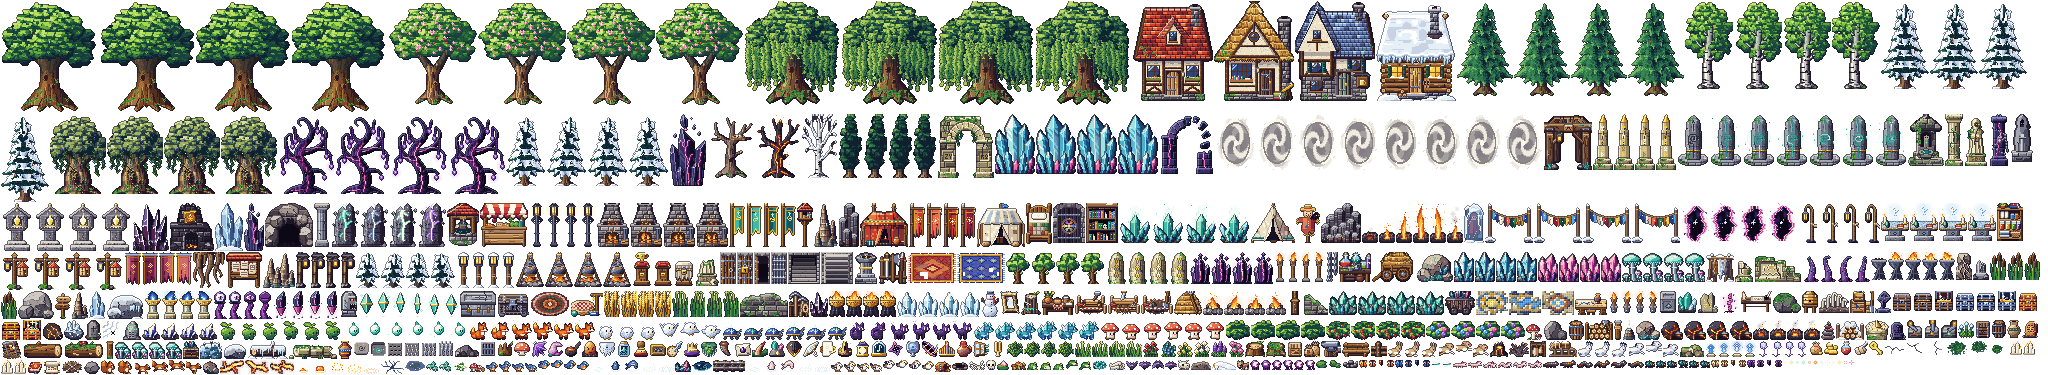
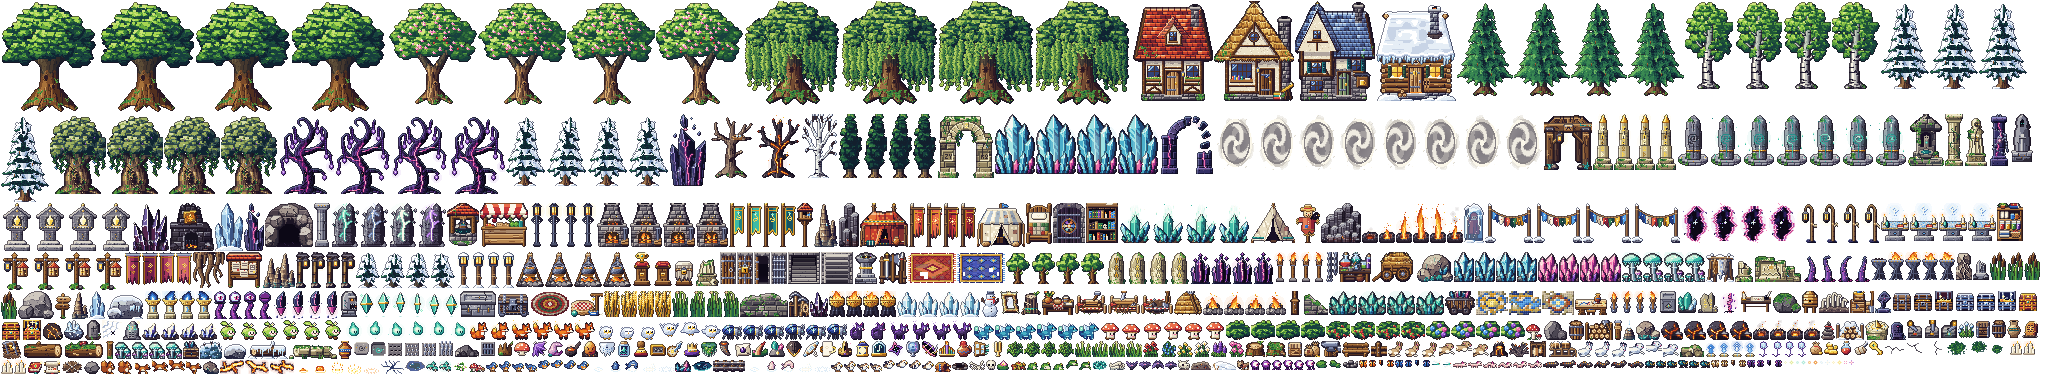
Begleiter überarbeitet: Moosling hebt sich vom Gras ab, Runenkäfer liest sich als Käfer, Quelldrachling ruhiger, Irrwisch als helle Flamme, Schneeeule mit großem Gesicht
Claude-Session: https://claude.ai/code/session_01RqpoYuwkQgyKncWb2VSQum

diff --git a/client/src/gfx/objects/cm_pets.ts b/client/src/gfx/objects/cm_pets.ts
@@ -4,7 +4,7 @@
  * y = 18, Kontur bei y = 19). Schwebende Begleiter (Irrlicht) halten ihren Abstand zum Boden im Frame selbst; das
  * Hüpfen der Schneeeule steckt ebenfalls in den Lauf-Frames. Lichtschein ist halbtransparent und ohne Kontur.
  */
-import { Px } from '../draw';
+import { Px, bez, tube } from '../draw';
 import { Frames, INK, P, Ramp, WHITE, alpha, glow, inkOutline, mix } from './kit';
 
 export const PET_W = 20, PET_H = 20, PET_FRAMES = 6;
@@ -17,38 +17,45 @@ const dot = (p: Px, x: number, y: number, c: number, a: number): void => { if (p
 
 // ---------------------------------------------------------------- Moosling: Moosknäuel mit Blatt
 const moosling: Pet = (p, f) => {
-  const G: Ramp = [P.forest[0], P.forest[2], P.green[2], P.green[3], P.green[4]];
+  // Helles, gelbliches Moos, cremefarbenes Gesicht, braune Wurzelfüße und eine kräftige dunkle Kontur: Auf Gras und unter
+  // Blätterschatten ging der frühere, rein grüne Moosling unter.
+  const G: Ramp = [P.forest[1], P.green[2], P.green[3], P.green[4], mix(P.green[4], P.gold[4], 0.55)], C = P.cream, R = P.wood;
   const w = ph(f), dy = w < 0 ? 0 : [0, -1, 0, -1][w], sq = w < 0 && f === 1 ? 1 : 0, lx = w < 0 ? f : [1, 0, -1, 0][w];
-  const cy = 12.6 + dy + sq * 0.6, a = w < 0 ? 0 : [1, 0, -1, 0][w];
-  p.rect(6 + a, 17 - (w === 3 ? 1 : 0), 3, 2, G[1]); p.rect(11 - a, 17 - (w === 1 ? 1 : 0), 3, 2, G[1]);
-  p.ball(10, cy, 6.3, 4.8 - sq * 0.5, G, 1, 4);
-  const t = Math.round(cy - 4.6 + sq * 0.5);
-  p.px([5, t + 2, 7, t, 8, t, 12, t, 14, t + 1], G[4]); p.px([6, t + 1, 10, t, 13, t + 1, 15, t + 3], G[3]); p.px([7, t + 6, 9, t + 8, 12, t + 8, 5, t + 5], G[1]);
-  const ey = Math.round(cy - 0.6);
-  p.rect(11, ey, 1, 2, INK); p.rect(14, ey, 1, 2, INK); p.set(15, ey + 2, P.pink[3]); p.set(10, ey + 2, P.pink[3]);
-  // Trieb mit großem Blatt, das nachschwingt
-  p.rect(9, t - 2, 1, 3, G[1]);
+  const cy = 12.2 + dy + sq * 0.6, a = w < 0 ? 0 : [1, 0, -1, 0][w];
+  for (const [x, up] of [[6 + a, w === 3], [11 - a, w === 1]] as const) { const y = 17 - (up ? 1 : 0); p.rect(x, y, 3, 2, R[2]); p.set(x, y, R[3]); p.set(x + 2, y + 1, R[1]); }
+  p.ball(10, cy, 6.6, 5.2 - sq * 0.5, G, 1, 4);
+  const t = Math.round(cy - 5 + sq * 0.5);
+  p.px([5, t + 2, 7, t, 8, t + 1, 12, t, 6, t + 3], G[4]); p.px([13, t + 1, 15, t + 3, 10, t], G[3]); p.px([7, t + 8, 5, t + 6, 4, t + 5], G[0]);
+  // Gesicht: heller Fleck vorn, große Augen, Wangen
+  const ey = Math.round(cy - 0.8);
+  p.ell(12.6, cy + 0.9, 3.5, 2.8, C[3]); p.ell(12.2, cy + 0.5, 2.7, 1.9, C[4]);
+  p.rect(11, ey, 1, 2, INK); p.rect(14, ey, 1, 2, INK); p.set(10, ey + 2, P.pink[3]); p.set(15, ey + 2, P.pink[3]); p.px([12, ey + 2, 13, ey + 2], R[1]);
+  // Trieb mit großem Blatt, das nachschwingt, und einer kleinen weißen Blüte
+  p.rect(9, t - 2, 1, 3, R[2]);
   p.poly([[9.5, t - 1.5], [8, t - 5], [4 + lx, t - 5 + (lx > 0 ? 1 : 0)], [3 + lx, t - 3], [6, t - 1.5]], G[3]);
-  p.line(9, t - 2, 5 + lx, t - 4, G[4]); p.set(4 + lx, t - 3, G[2]); p.px([10, t - 3, 11, t - 4], G[4]); p.set(12, t - 4, G[3]);
-  inkOutline(p);
+  p.line(9, t - 2, 5 + lx, t - 4, G[4]); p.set(4 + lx, t - 3, G[1]);
+  p.px([11, t - 3, 13, t - 3, 12, t - 4, 12, t - 2], WHITE); p.set(12, t - 3, P.gold[3]); p.px([10, t - 2, 11, t - 2], G[2]);
+  inkOutline(p, 0.74, 0.88);
 };
 
 // ---------------------------------------------------------------- Irrlicht: freundliches Flämmchen, schwebt
 const wisp: Pet = (p, f) => {
-  const T: Ramp = [P.teal[1], P.teal[2], P.teal[3], P.teal[4], WHITE];
+  // Flammenleib durchgehend hell (außen Türkis, innen fast Weiß): die frühere dunkle Spitze las sich als Rübenblatt
+  const O = P.teal[3], M = P.teal[4], L = mix(P.teal[4], WHITE, 0.6);
   const w = ph(f), dy = w < 0 ? -f : [0, -1, -1, 0][w], lean = w < 0 ? 0 : 1, fl = w < 0 ? (f ? 1 : -1) : [-1, -2, -1, -2][w];
-  const cx = 10 + lean, cy = 10.5 + dy;
-  // Flammenzipfel (weht beim Schweben nach hinten)
-  p.poly([[cx - 3, cy - 1], [cx - 1 + fl * 0.5, cy - 5], [cx + fl, cy - 8], [cx + 1.5 + fl * 0.3, cy - 4.5], [cx + 3, cy - 1]], T[2]);
-  p.poly([[cx - 1.5, cy - 1], [cx - 0.3 + fl * 0.5, cy - 4], [cx + 0.3 + fl * 0.8, cy - 6], [cx + 1.2, cy - 1]], T[3]);
-  p.ball(cx, cy, 4.3, 4.3, T, 1, 4, 0.12); p.ell(cx - 0.6, cy - 0.4, 2.6, 2.4, T[4]); p.ell(cx + 0.4, cy + 1, 2.6, 2, T[3]); p.ell(cx - 0.8, cy - 0.8, 1.6, 1.4, WHITE);
+  const cx = 10 + lean, cy = 11 + dy, tx = cx + fl * 1.1 - (w < 0 ? 0 : 1.2), ty = cy - 9;
+  p.poly([[cx - 3.8, cy - 1], [cx - 2.4 + fl * 0.3, cy - 4.5], [tx, ty], [cx + 1.8 + fl * 0.5, cy - 4.5], [cx + 3.8, cy - 1]], O);
+  p.ell(cx, cy, 4.5, 4.3, O);
+  p.poly([[cx - 2.6, cy - 1], [cx - 1.4 + fl * 0.3, cy - 4], [tx + 0.2, ty + 2.4], [cx + 0.8 + fl * 0.4, cy - 4], [cx + 2.4, cy - 1]], M);
+  p.ell(cx - 0.3, cy - 0.2, 3.5, 3.3, M); p.ell(cx - 0.6, cy - 0.6, 2.5, 2.4, L); p.ell(cx - 0.9, cy - 1, 1.5, 1.3, WHITE);
+  p.px([cx + 2, cy + 3, cx + 3, cy + 2, cx + 1, cy + 3], P.teal[2]); p.set(Math.round(tx), Math.round(ty + 1), M);
   const ex = Math.round(cx), ey = Math.round(cy - 0.4);
   p.rect(ex, ey, 1, 2, P.teal[0]); p.rect(ex + 2, ey, 1, 2, P.teal[0]); p.set(ex + 1, ey + 2, P.teal[1]);
-  if (w < 0 && f === 1) { p.rect(ex, ey, 1, 1, T[3]); p.rect(ex + 2, ey, 1, 1, T[3]); }
-  inkOutline(p, 0.5, 0.62, P.teal[0]);
+  if (w < 0 && f === 1) { p.rect(ex, ey, 1, 1, M); p.rect(ex + 2, ey, 1, 1, M); }
+  inkOutline(p, 0.42, 0.58, P.teal[0]);
   glow(p, cx, cy, 8, P.teal[4], 70);
   // Funken: unter dem Irrlicht bzw. als Schweif hinter ihm
-  if (w < 0) { dot(p, 9 + f, 16 + f, P.teal[4], 200); dot(p, 12 - f, 17, WHITE, 170); dot(p, 7, 15 - f, P.teal[3], 150); }
+  if (w < 0) { dot(p, 9 + f, 17 + f, P.teal[4], 200); dot(p, 12 - f, 18, WHITE, 170); dot(p, 7, 16 - f, P.teal[3], 150); }
   else { dot(p, 5 - (w & 1), 13 + (w >> 1), P.teal[4], 210); dot(p, 3 + (w & 1), 11 + w % 3, WHITE, 170); dot(p, 6, 16 - (w & 1), P.teal[3], 160); dot(p, 2, 14, P.teal[3], 110); }
 };
 
@@ -104,45 +111,55 @@ const schneeeule: Pet = (p, f) => {
   else if (wing === 2) { p.poly([[6, cy], [1, cy - 6], [3, cy - 1], [5, cy + 2]], S[2]); p.poly([[14, cy], [19, cy - 6], [17, cy - 1], [15, cy + 2]], S[1]); p.px([1, cy - 5, 2, cy - 3], S[4]); p.set(19, cy - 5, S[3]); }
   else if (wing === -1) { p.poly([[6, cy - 1], [1, cy + 3], [3, cy + 4], [6, cy + 3]], S[2]); p.poly([[14, cy - 1], [19, cy + 3], [17, cy + 4], [14, cy + 3]], S[1]); p.set(2, cy + 3, S[4]); }
   else { p.poly([[6, cy - 1], [1, cy - 1], [2, cy + 1], [6, cy + 2]], S[2]); p.poly([[14, cy - 1], [19, cy - 1], [18, cy + 1], [14, cy + 2]], S[1]); p.set(2, cy - 1, S[4]); }
-  // Körper
-  p.ball(10, cy, 5.6, ry, S, 1, 4, 0.1);
+  // Körper: graublau gesprenkelt, damit das weiße Gesicht davor steht
+  p.ball(10, cy, 5.6, ry, [S[0], S[1], S[2], S[3], S[3]], 1, 4, 0.06);
   const t = Math.round(cy - ry);
   p.px([6, t + 1, 13, t + 1], S[4]); p.set(5, t, S[3]); p.set(14, t, S[3]);
   if (wing === 0) { p.ell(6.2, cy + 1.4, 1.8, 2.8, S[2]); p.px([6, cy + 3, 5, cy + 1, 7, cy + 4], S[1]); }
-  p.px([10, cy + 2, 12, cy + 3, 9, cy + 4, 13, cy + 1], S[1]);
-  // Gesicht: große Augen, kleiner Schnabel
-  const ey = Math.round(cy - 2.2);
-  if (w < 0 && f === 1) { p.rect(9, ey + 1, 2, 1, P.steel[1]); p.rect(13, ey + 1, 2, 1, P.steel[1]); }
-  else { p.rect(9, ey, 2, 2, Y[3]); p.rect(13, ey, 2, 2, Y[3]); p.set(10, ey + 1, INK); p.set(14, ey + 1, INK); p.set(10, ey, INK); p.set(14, ey, INK); p.set(9, ey, Y[4]); p.set(13, ey, Y[4]); }
-  p.rect(12, ey + 2, 1, 2, P.fire[2]); p.set(12, ey + 2, Y[3]);
+  p.px([9, cy + 3, 11, cy + 4, 13, cy + 3, 10, cy + 5, 12, cy + 5], S[1]);
+  // Gesichtsschleier, große Augen mit Goldring, Schnabel
+  const ey = Math.round(cy - 2.4);
+  p.ell(11.5, cy - 1.2, 4.2, 2.9, S[4]); p.px([8, ey - 1, 15, ey - 1], S[4]);
+  if (w < 0 && f === 1) { p.rect(8, ey + 1, 3, 1, P.steel[1]); p.rect(12, ey + 1, 3, 1, P.steel[1]); }
+  else for (const x of [8, 12]) { p.rect(x, ey, 3, 3, Y[3]); p.rect(x + 1, ey, 2, 2, INK); p.set(x + 1, ey, WHITE); p.set(x, ey + 2, Y[2]); }
+  p.rect(11, ey + 2, 1, 2, P.fire[2]); p.set(11, ey + 2, Y[4]);
   inkOutline(p, 0.5, 0.66, P.blue[0]);
 };
 
 // ---------------------------------------------------------------- Runenkäfer: Panzer mit leuchtender Glyphe
 const runenkaefer: Pet = (p, f) => {
+  // Käfer statt Schildkröte: ovaler Hinterleib mit Flügeldeckennaht, abgesetzter heller Halsschild, Kopf mit Gabelhorn,
+  // fünf sichtbare, abgewinkelte Beine im Dreifußgang.
   const B: Ramp = [P.shadow[1], P.blue[0], P.blue[1], mix(P.blue[2], P.violet[2], 0.35), mix(P.blue[3], P.ice[2], 0.4)], S = P.steel, Y = P.gold, w = ph(f);
-  const dy = w === 1 || w === 3 ? -1 : 0, a = w < 0 ? 0 : [1, 0, -1, 0][w];
-  // drei gespreizte Beine (Dreifußgang: vorn/hinten gegen die Mitte)
-  for (const [x, s, dir] of [[4, 1, -1], [9, -1, 0], [13, 1, 1]] as const) { const o = a * s; p.line(x, 16 + dy, x + dir + o, 18, S[1]); p.set(x + dir + o + (dir || 1), 18, S[1]); }
-  // Kopf, Fühler
-  p.ell(16, 14.4 + dy, 2.4, 2.2, S[1]); p.px([15, 13 + dy, 16, 13 + dy], S[2]); p.set(17, 14 + dy, P.teal[4]);
-  const an = w < 0 ? f : w & 1;
-  p.line(16, 12 + dy, 18, 10 + dy - an, S[2]); p.set(19, 10 + dy - an, S[3]);
-  // Panzer: Halbkuppel mit Goldsaum und Mittelnaht
-  const by = 16 + dy;
-  for (let y = 5; y < 17; y++) for (let x = 1; x < 16; x++) {
-    const nx = (x + 0.5 - 8.4) / 6.6, ny = (y + 0.5 - by) / 7.2, rr = nx * nx + ny * ny;
-    if (rr > 1 || y + 0.5 > by) continue;
-    const t = 0.6 - (nx * 0.45 + ny * 0.7) * 0.6 - rr * 0.16;
-    p.set(x, y, B[Math.max(1, Math.min(4, 1 + Math.floor(t * 3.4)))]);
+  const dy = w === 1 || w === 3 ? -1 : 0, o = w < 0 ? 0 : [1, 0, -1, 0][w];
+  // ferne Beine
+  p.line(6, 14 + dy, 6 - o, 18, S[0]); p.line(10, 14 + dy, 10 + o, 18, S[0]);
+  // nahe Beine: Hüfte → Knie → Fuß
+  for (const [x, kx, fx] of [[4, 2, 1 + o], [8, 8, 8 - o], [12, 14, 15 + o]] as const) { p.line(x, 14 + dy, kx, 16 + dy, S[2]); p.line(kx, 16 + dy, fx, 18, S[1]); p.set(kx, 15 + dy, S[3]); }
+  // Hinterleib
+  const cy = 10.6 + dy;
+  for (let y = 4; y < 17; y++) for (let x = 0; x < 15; x++) {
+    const nx = (x + 0.5 - 7.4) / 6.2, ny = (y + 0.5 - cy) / 4.9, rr = nx * nx + ny * ny;
+    if (rr > 1) continue;
+    const t = 0.58 - (nx * 0.45 + ny * 0.7) * 0.62 - rr * 0.14;
+    p.set(x, y, B[Math.max(1, Math.min(4, 1 + Math.floor(t * 3.6)))]);
   }
-  p.rect(2, by - 1, 13, 1, Y[2]); p.rect(2, by - 1, 5, 1, Y[3]); p.set(2, by - 1, Y[4]); p.px([5, by - 5, 6, by - 6], WHITE);
+  // Naht der Flügeldecken über den Rücken, Glanz
+  for (const [x, y] of [[12, 7], [11, 7], [10, 6], [9, 6], [8, 6], [7, 6], [6, 7], [5, 7], [4, 8], [3, 9], [2, 10]] as const) p.set(x, y + dy + 1, B[0]);
+  p.px([5, 6 + dy, 6, 6 + dy, 4, 7 + dy], WHITE); p.px([3, 13 + dy, 5, 14 + dy, 8, 15 + dy], B[0]);
+  // Halsschild mit Goldkante, Kopf, Gabelhorn, Taster
+  p.ell(14.2, 11.4 + dy, 2.5, 3.5, S[2]); p.ell(13.8, 10.6 + dy, 1.5, 2, S[3]); p.px([13, 9 + dy, 14, 9 + dy], S[4]);
+  for (let y = 8; y <= 14; y++) p.set(12, y + dy, y < 11 ? Y[4] : y < 13 ? Y[3] : Y[2]);
+  p.ell(16.9, 13 + dy, 1.9, 1.9, S[1]); p.set(17, 12 + dy, P.teal[4]); p.set(16, 12 + dy, S[2]);
+  const an = w < 0 ? f : w & 1;
+  p.line(17, 11 + dy, 18, 8 + dy - an, S[2]); p.px([19, 7 + dy - an, 17, 7 + dy - an], S[3]); p.set(18, 8 + dy - an, S[3]);
+  p.px([18, 15 + dy, 19, 14 + dy], S[2]);
   // Glyphe (ein Runenzeichen mit zwei Ästen): pulsiert in der Ruhe
-  const dim = w < 0 && f === 1, R = dim ? P.teal[3] : P.teal[4], gy = by - 6;
-  p.rect(9, gy, 1, 4, dim ? P.teal[4] : WHITE); p.px([8, gy + 1, 7, gy, 10, gy + 1, 11, gy, 9, gy - 1], R);
+  const dim = w < 0 && f === 1, R = dim ? P.teal[3] : P.teal[4], gy = 9 + dy;
+  p.rect(7, gy, 1, 4, dim ? P.teal[4] : WHITE); p.px([6, gy + 1, 5, gy, 8, gy + 1, 9, gy, 7, gy - 1], R);
   inkOutline(p);
-  glow(p, 9.5, gy + 1, dim ? 4 : 5.5, P.teal[4], dim ? 45 : 75);
-  if (!dim) { dot(p, 9, gy - 5, P.teal[4], 200); dot(p, 4, gy - 3, P.teal[4], 120); }
+  glow(p, 7.5, gy + 1, dim ? 4 : 5.5, P.teal[4], dim ? 45 : 75);
+  if (!dim) { dot(p, 7, gy - 5, P.teal[4], 200); dot(p, 2, gy - 3, P.teal[4], 120); }
 };
 
 // ---------------------------------------------------------------- Schattenkatze: Kätzchen aus Schatten, blasse Augen
@@ -185,36 +202,33 @@ const schattenkatze: Pet = (p, f) => {
 
 // ---------------------------------------------------------------- Quelldrachling: Wasserkristall-Drache, der seltenste
 const quelldrachling: Pet = (p, f) => {
+  // Ruhiger als zuvor: ein Farbton für den Leib, ein heller Flossenflügel, zwei kurze Hörner, ein Tropfen an der
+  // Schwanzspitze – keine Kristallzacken und kein wanderndes Funkeln mehr.
   const A: Ramp = [P.blue[0], P.blue[1], mix(P.blue[2], P.teal[2], 0.5), mix(P.blue[3], P.teal[3], 0.55), mix(P.ice[3], P.teal[4], 0.4)], T = P.teal, I = P.ice, w = ph(f);
   const dy = w < 0 ? 0 : [0, -1, 0, -1][w], a = w < 0 ? 0 : [1, 0, -1, 0][w], fl = w < 0 ? f : [0, 1, 2, 1][w], tw = w < 0 ? f : [0, 1, 0, -1][w];
-  // Schwanz liegt tief und trägt einen Tropfenkristall
-  const ty = 12.5 + dy - tw;
-  p.line(6, 15 + dy, 3, 16 + dy, A[2], 2); p.line(3, 16 + dy, 2, ty + 2, A[2], 2); p.set(5, 15 + dy, A[3]);
-  p.poly([[2.5, ty - 3], [4.5, ty], [2.5, ty + 2.5], [0.5, ty]], T[3]); p.poly([[2.5, ty - 3], [2.5, ty + 2.5], [0.5, ty]], T[4]); p.set(2, ty - 1, WHITE);
+  // Schwanz: ein Bogen nach oben, an der Spitze der Tropfen
+  const ty = 9 + dy - tw;
+  tube(p, bez([6, 15 + dy], [1, 17 + dy], [2.5, ty + 2], 8), 1.5, 0.9, A, 1);
+  p.ell(2.5, ty, 1.7, 2, T[4]); p.set(2, ty - 2, T[4]); p.set(2, ty - 1, WHITE); p.set(3, ty + 1, T[3]);
   // ferne Beine
   p.rect(11 - a, 16 + dy, 1, 3 - dy, A[1]); p.rect(7 + a, 16 + dy, 1, 3 - dy, A[1]);
-  // ein heller Flossenflügel (schlägt beim Laufen)
+  // ein Flossenflügel (schlägt beim Laufen)
   const wy = 7 + dy - fl;
-  p.poly([[6, 12 + dy], [4, wy], [7, wy + 2], [9, wy - 1], [10, 12 + dy]], I[3]); p.line(6, 12 + dy, 4, wy, I[4]); p.line(9, 12 + dy, 9, wy, T[3]); p.set(4, wy, WHITE); p.set(9, wy - 1, I[4]); p.set(7, wy + 3, T[3]);
+  p.poly([[6.5, 12.5 + dy], [5, wy], [9.5, wy + 2], [10.5, 12.5 + dy]], I[3]); p.line(6, 12 + dy, 5, wy, I[4]); p.line(8, 12 + dy, 7, wy + 2, I[2]);
   // Rumpf, heller Bauch
-  p.ell(8.8, 14 + dy, 4.2, 2.8, A[2]); p.ell(8.2, 13.2 + dy, 3, 1.5, A[3]); p.ell(9.8, 15.6 + dy, 2.6, 1, A[4]);
-  // Hals, großer Kopf mit Schnauze
+  p.ell(8.8, 14 + dy, 4.2, 2.8, A[2]); p.ell(8.2, 13.2 + dy, 3, 1.5, A[3]); p.rect(8, 16 + dy, 4, 1, A[4]);
+  // Hals, großer Kopf mit Schnauze, zwei kurze Hörner
   p.ell(12.2, 12.2 + dy, 1.9, 2.4, A[2]); p.px([13, 13 + dy, 13, 14 + dy], A[4]);
   const hx = 14, hy = 9 + dy;
-  // zwei Kristallhörner
-  p.line(hx - 1, hy - 3, hx - 3, hy - 6, T[4]); p.line(hx - 2, hy - 3, hx - 4, hy - 6, T[3]); p.set(hx - 3, hy - 6, WHITE);
-  p.line(hx + 1, hy - 3, hx + 1, hy - 6, I[4]); p.set(hx + 2, hy - 4, T[3]);
+  p.px([hx - 2, hy - 3, hx - 3, hy - 4, hx - 3, hy - 5], I[4]); p.px([hx, hy - 3, hx, hy - 4], I[3]);
   p.ell(hx, hy, 3.3, 2.9, A[2]); p.ell(hx - 0.6, hy - 0.9, 2.2, 1.4, A[3]); p.ell(hx + 2.9, hy + 1, 1.8, 1.3, A[3]); p.px([hx + 1, hy + 2, hx + 2, hy + 2], A[4]);
-  p.rect(hx + 1, hy - 1, 1, 2, INK); p.set(hx + 2, hy - 1, WHITE); p.set(hx + 4, hy + 0.5, A[0]); p.set(hx - 3, hy + 1, T[4]);
-  // nahe Beine mit hellen Krallen
+  p.rect(hx + 1, hy - 1, 1, 2, INK); p.set(hx + 2, hy - 1, WHITE); p.set(hx + 4, hy + 0.5, A[0]);
+  // nahe Beine
   const lift = (k: number): number => (w === k ? 1 : 0);
   p.rect(12 + a, 15 + dy, 2, 4 - dy - lift(1), A[2]); p.rect(5 - a, 15 + dy, 2, 4 - dy - lift(3), A[2]);
-  p.set(13 + a, 18 - lift(1), A[4]); p.set(6 - a, 18 - lift(3), A[4]); p.set(12 + a, 15 + dy, A[3]);
+  p.set(13 + a, 18 - lift(1), A[4]); p.set(6 - a, 18 - lift(3), A[4]);
   inkOutline(p, 0.5, 0.68, P.blue[0]);
   glow(p, 2.5, ty, 3.6, T[4], 85);
-  // Funkeln: wandert über die Frames
-  const s = f % 3;
-  dot(p, 17 + (s === 1 ? 1 : 0), 2 + s, WHITE, 230); dot(p, 7, 3 + s, I[4], 180); dot(p, 18, 15 - s * 2, T[4], 150);
 };
 
 // ---------------------------------------------------------------- Pilzling: kleiner Pilz auf Füßen
